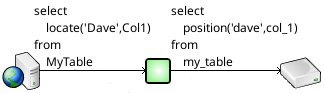
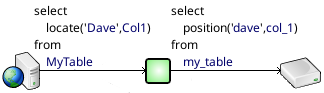
updates

diff --git a/doc/features/datatranslation.html b/doc/features/datatranslation.html
@@ -84,9 +84,13 @@ http://www.gnu.org/software/src-highlite -->
 
 <p>...</p>
 
+<p><img src="../images/translation-resultset.png"/></p>
+
 <h2>Error Translation</h2>
 
 <p>...</p>
+
+<p><img src="../images/translation-errors.png"/></p>
 
 <!--#include virtual="../contentend.html"-->
 
